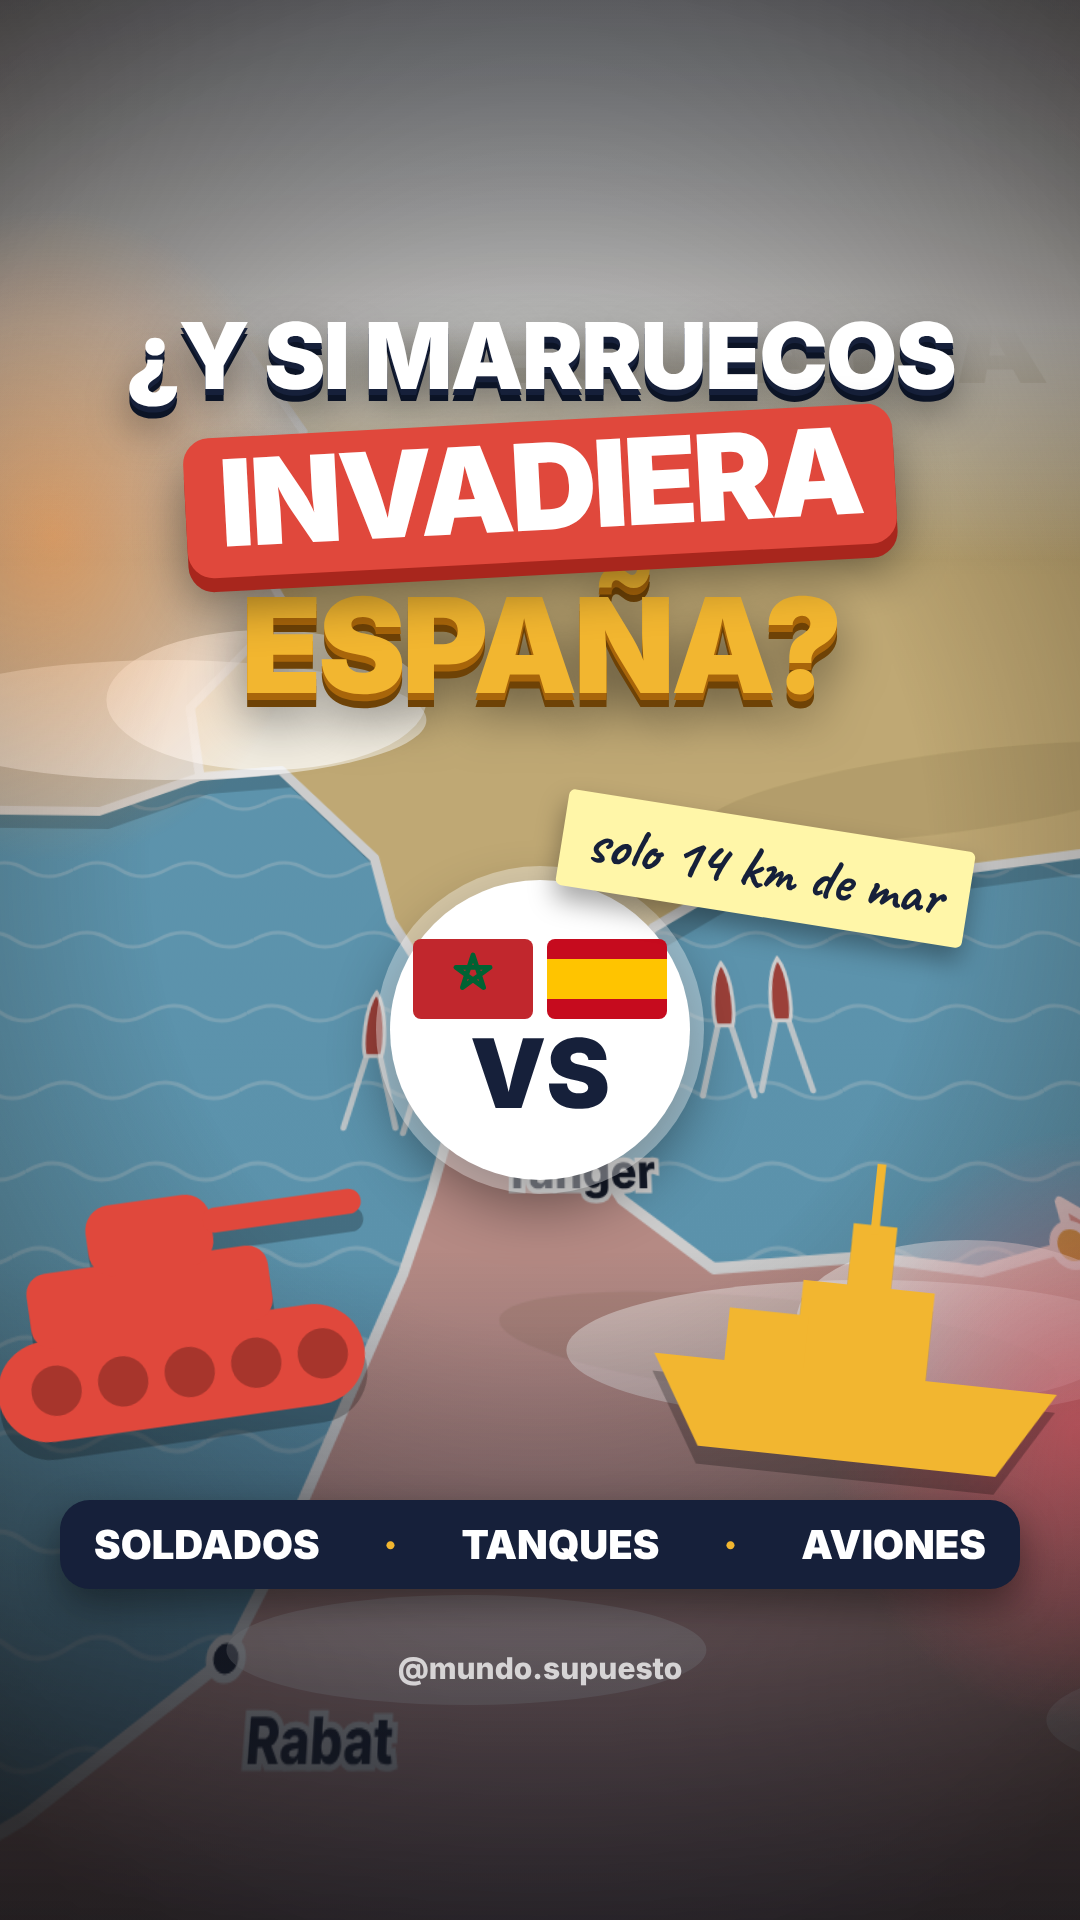
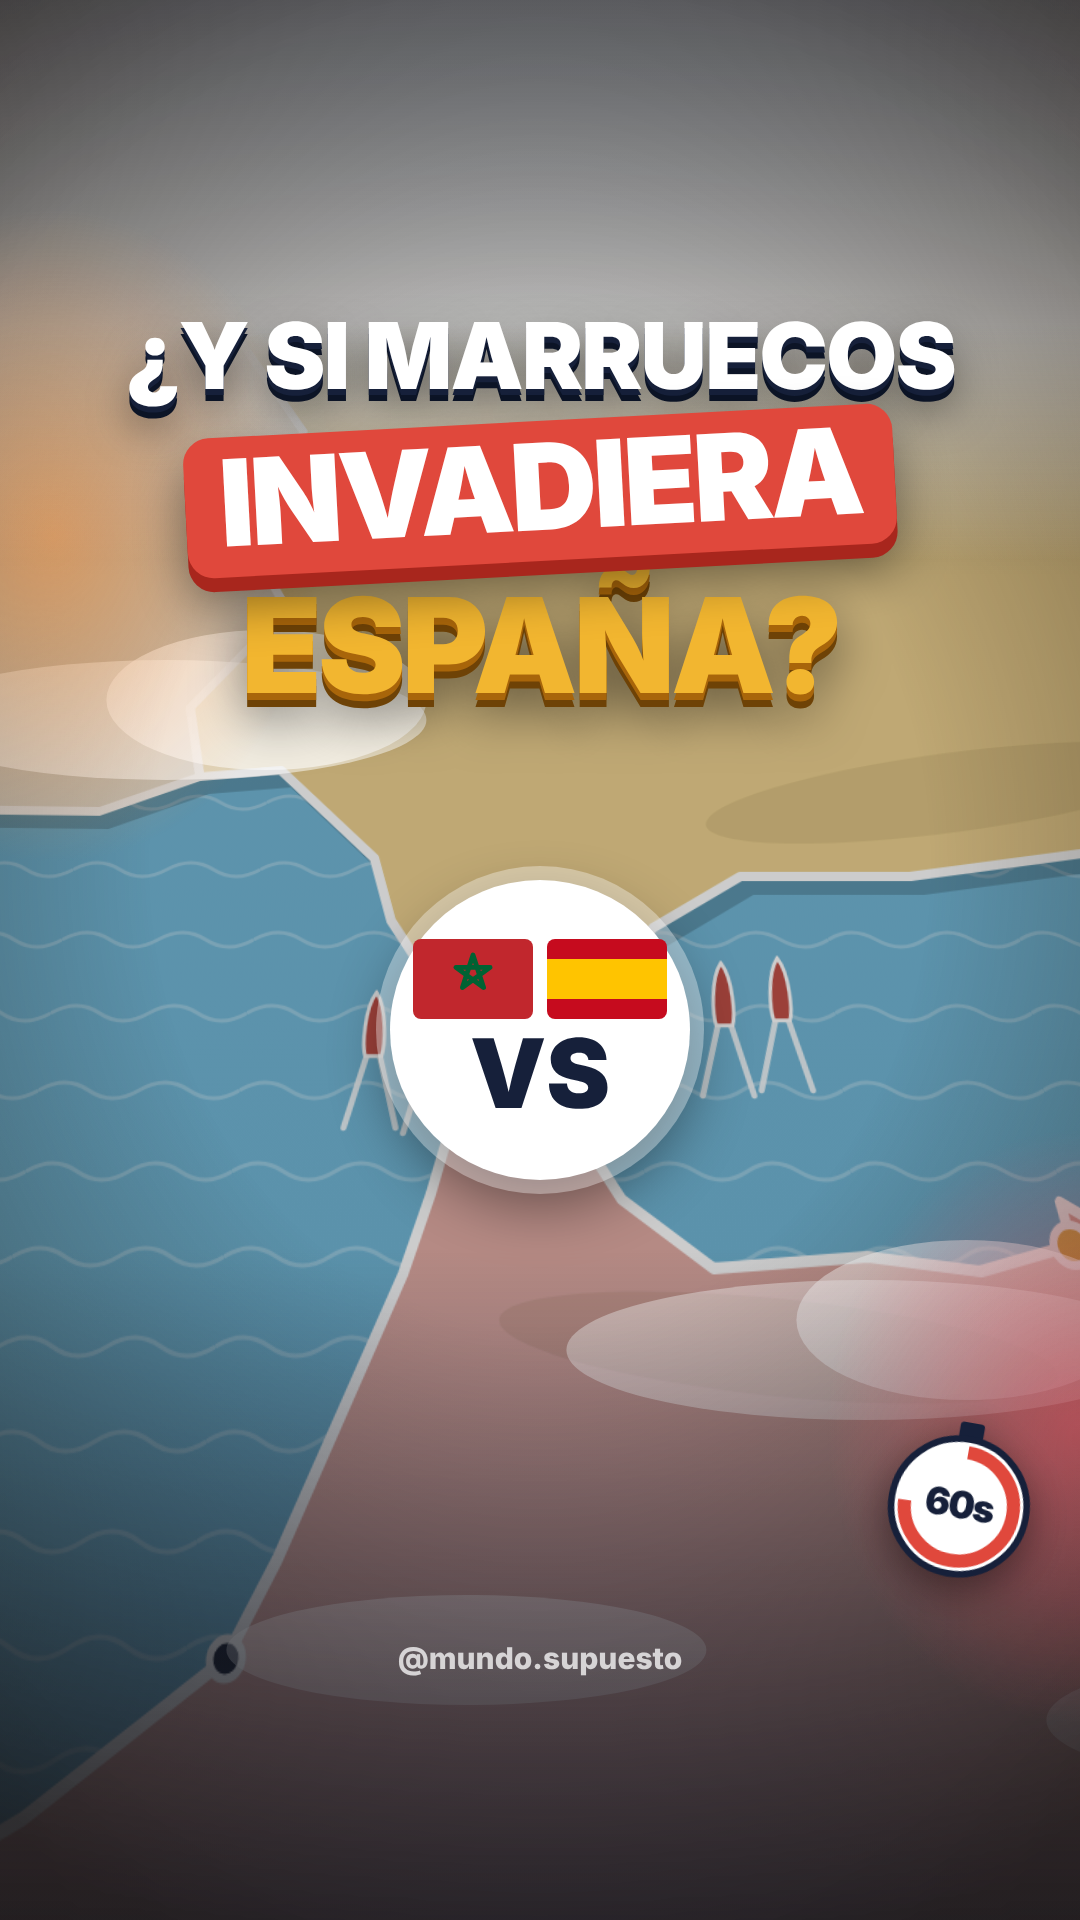
Marruecos v2: portada más simple con 60s en la esquina
Claude-Session: https://claude.ai/code/session_01FgZK39uRFBPnhEWyncataL

diff --git a/quiz-video/animado/marruecos2/miniatura/hacer.js b/quiz-video/animado/marruecos2/miniatura/hacer.js
@@ -10,7 +10,8 @@ const path = require('path');
   await p.goto('file://' + dir + '/index.html'); await p.waitForTimeout(1500);
   await p.evaluate(() => {
     const tl = window.__timelines.main; tl.seek(4.6);
-    for (const s of ['#subs', '#crono', '#grano', '#titulo', '#marca', '#regla', '#preg']) { const e = document.querySelector(s); if (e) e.style.display = 'none'; }
+    for (const s of ['#subs', '#crono', '#grano', '#titulo', '#marca', '#preg', '#regla']) { const e = document.querySelector(s); if (e) e.style.display = 'none'; }
+    document.querySelectorAll('#mundo text').forEach(t => t.style.display = 'none');
     document.querySelector('#escena').style.filter = 'saturate(0.75) brightness(0.8)';
     const ico = (id, col, s, extra = '') => `<svg width="${s}" height="${s}" viewBox="0 0 100 100" style="color:${col};overflow:visible;${extra}"><use href="#i-${id}" fill="currentColor"/></svg>`;
     const es = '<svg width="120" height="80" viewBox="0 0 120 80"><rect width="120" height="80" rx="8" fill="#c60b1e"/><rect y="20" width="120" height="40" fill="#ffc400"/></svg>';
@@ -26,14 +27,11 @@ const path = require('path');
       </div>
       <div style="position:absolute;left:390px;top:880px;width:300px;height:300px;border-radius:50%;background:#fff;box-shadow:0 0 0 14px rgba(255,255,255,0.35), 0 24px 60px rgba(0,0,0,0.45);display:flex;flex-direction:column;align-items:center;justify-content:center;gap:6px">
         <div style="display:flex;gap:14px">${ma}${es}</div><div style="font:900 96px Inter;color:#16203a;line-height:1">VS</div></div>
-      <div style="position:absolute;left:-40px;top:1080px;transform:rotate(-8deg);filter:drop-shadow(0 18px 0 rgba(0,0,0,0.25))">${ico('tanque', '#e0483c', 420)}</div>
-      <div style="position:absolute;left:640px;top:1110px;transform:rotate(6deg) scaleX(-1);filter:drop-shadow(0 18px 0 rgba(0,0,0,0.25))">${ico('barco', '#f2b630', 440)}</div>
-      <div style="position:absolute;left:560px;top:820px;padding:12px 26px;background:#fff6a8;border-radius:6px;transform:rotate(9deg);box-shadow:0 14px 26px rgba(0,0,0,0.35);font:700 58px Caveat;color:#16203a;white-space:nowrap;z-index:3">solo 14 km de mar</div>
-      <div style="position:absolute;left:60px;right:60px;top:1500px;display:flex;justify-content:space-between;align-items:center;padding:20px 34px;background:#16203a;border-radius:30px;box-shadow:0 16px 40px rgba(0,0,0,0.45)">
-        <span style="font:900 40px Inter;color:#fff">SOLDADOS</span><span style="color:#f2b630;font:900 40px Inter">·</span>
-        <span style="font:900 40px Inter;color:#fff">TANQUES</span><span style="color:#f2b630;font:900 40px Inter">·</span>
-        <span style="font:900 40px Inter;color:#fff">AVIONES</span></div>
-      <div style="position:absolute;left:0;right:0;top:1650px;text-align:center;font:800 30px Inter;color:#fff;opacity:0.75">@mundo.supuesto</div>`;
+      <div style="position:absolute;left:880px;top:1420px;width:160px;height:160px;transform:rotate(10deg);filter:drop-shadow(0 12px 20px rgba(0,0,0,0.45))">
+        <svg width="160" height="160" viewBox="0 0 170 170"><rect x="72" y="2" width="26" height="18" rx="4" fill="#16203a"/><circle cx="85" cy="92" r="72" fill="#ffffff" stroke="#16203a" stroke-width="7"/>
+        <circle cx="85" cy="92" r="58" fill="none" stroke="#e0483c" stroke-width="14" stroke-dasharray="270 400" transform="rotate(-90 85 92)"/>
+        <text x="85" y="104" text-anchor="middle" font-family="Inter" font-weight="900" font-size="40" fill="#16203a" letter-spacing="-2">60s</text></svg></div>
+      <div style="position:absolute;left:0;right:0;top:1640px;text-align:center;font:800 30px Inter;color:#fff;opacity:0.75">@mundo.supuesto</div>`;
     div.style.cssText = 'position:absolute;inset:0;z-index:90';
     document.querySelector('#root').appendChild(div);
   });
